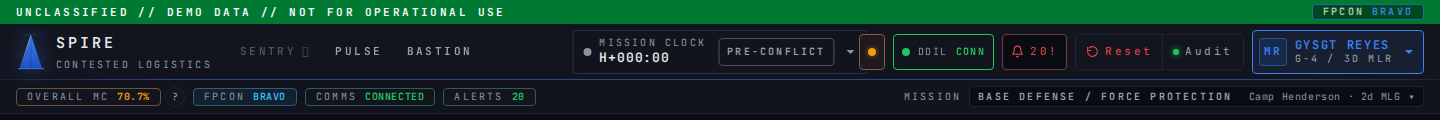
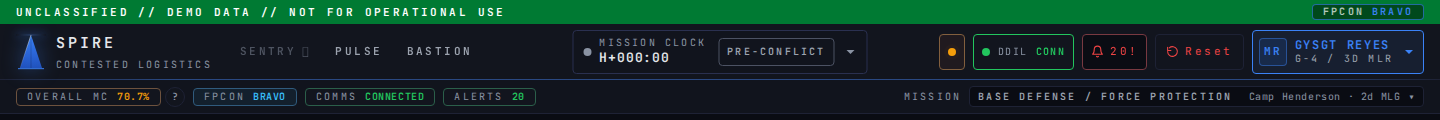
topbar: restore Audit stage-only gating (matches master AuditPill chrome)
Code-review follow-up. The previous commit set `showAudit = true` in
  StageCluster, which exposed the Audit chip in operator mode. The master
  TopBar guarded AuditPill with `{stageMode && <AuditPill />}`, so the
  chip is stage-only — restored exactly:

  - StageCluster: `showAudit = stageMode`. Failsafe and Reset gating
    unchanged (preserves master behaviour). The cluster returns null when
    no buttons are visible, so a non-g4 operator with no scenario sees
    no empty rounded shell.
  - TopBar still mounts <StageCluster role={role} /> unconditionally —
    the cluster's internal gates take over and produce master-equivalent
    visibility for every (role × stageMode × scenarioLoaded) combo.
  - topbar_layout.spec.ts: rewrote the operator-mode test to assert
    Audit and Failsafe are HIDDEN (operator + g4 + no scenario only
    shows Reset), and added a test that the cluster returns null
    entirely for non-g4 operators with no scenario. The stage-mode test
    still asserts Reset + Audit visible (Failsafe gated on scenario).
  - docs/topbar-anatomy.md: corrected AuditPill row to "stage-only".
  - docs/screenshots/topbar/*.png re-captured (Audit no longer appears
    in operator screenshots).

  Validation: 26/26 Playwright tests green; tsc clean.

Changed region(s): [[0.5938, 0.375, 0.875, 0.5], [0.5938, 0.55, 0.8125, 0.6], [0.5938, 0.275, 0.8125, 0.325]]

diff --git a/tests/playwright/topbar_layout.spec.ts b/tests/playwright/topbar_layout.spec.ts
@@ -128,7 +128,7 @@ test.describe("TopBar declutter (Task #184)", () => {
     await expect(topbar.getByRole("link", { name: /^BASTION$/i }).first()).toBeVisible();
   });
 
-  test("stage mode at lg shows StageCluster with Reset (relaxed) + Audit grouped", async ({ page }) => {
+  test("stage mode at lg renders the StageCluster with Reset + Audit grouped", async ({ page }) => {
     await page.setViewportSize(BREAKPOINTS.lg);
     await enableStageMode(page);
     // Reset is g4-only outside stage mode; in stage mode it relaxes to
@@ -137,27 +137,36 @@ test.describe("TopBar declutter (Task #184)", () => {
     const cluster = page.getByTestId("stage-cluster");
     await expect(cluster).toBeVisible();
     await expect(cluster).toHaveAttribute("data-stage-mode", "1");
-    // Reset relaxes for any role in stage mode; Audit is unconditional.
+    // In stage mode the cluster groups all three controls. Failsafe is
+    // gated on a loaded scenario (same gate as the original chrome) and
+    // the spec doesn't trigger one, so it's absent here — Reset and
+    // Audit are the two stage-only controls that always render.
     await expect(cluster.getByTestId("stage-cluster-reset")).toBeVisible();
     await expect(cluster.getByTestId("stage-cluster-audit")).toBeVisible();
-    // Failsafe is gated on a loaded scenario (same gate as the original
-    // chrome). The spec doesn't trigger one, so the button is absent —
-    // exactly what the old TopBar did. We assert the gate, not presence.
     await expect(cluster.getByTestId("stage-cluster-failsafe")).toHaveCount(0);
   });
 
-  test("operator mode preserves Audit (always) — Failsafe and Reset stay role-gated", async ({ page }) => {
-    // Reyes (g4) — Audit always visible, Reset visible for g4. Failsafe
-    // requires a scenario to be loaded, which the spec doesn't trigger,
-    // so we only assert it's NOT visible (matches the old chrome).
+  test("operator mode keeps stage-only controls hidden — Audit + Failsafe gated, Reset stays for g4", async ({ page }) => {
+    // The pre-declutter chrome rendered AuditPill only when stageMode is
+    // on (`{stageMode && <AuditPill />}`). The cluster preserves that
+    // exactly. Reset stays visible for g4 outside stage mode.
     await page.setViewportSize(BREAKPOINTS.lg);
     await signIn(page, TEST_DODID);
     const cluster = page.getByTestId("stage-cluster");
     await expect(cluster).toBeVisible();
     await expect(cluster).toHaveAttribute("data-stage-mode", "0");
-    await expect(cluster.getByTestId("stage-cluster-audit")).toBeVisible();
     await expect(cluster.getByTestId("stage-cluster-reset")).toBeVisible();
+    await expect(cluster.getByTestId("stage-cluster-audit")).toHaveCount(0);
     await expect(cluster.getByTestId("stage-cluster-failsafe")).toHaveCount(0);
+  });
+
+  test("operator mode for non-g4 with no scenario hides the StageCluster entirely", async ({ page }) => {
+    // For Park (security_manager) outside stage mode with no scenario:
+    // Audit gated (stage-only), Reset gated (g4-only), Failsafe gated
+    // (no scenario). The cluster returns null — no empty rounded shell.
+    await page.setViewportSize(BREAKPOINTS.lg);
+    await signIn(page, SECURITY_MANAGER_DODID);
+    await expect(page.getByTestId("stage-cluster")).toHaveCount(0);
   });
 
   test("IdentityPill menu hosts Operator settings (Air-gap, Density, Comms)", async ({ page }) => {

diff --git a/frontend/src/components/StageCluster.tsx b/frontend/src/components/StageCluster.tsx
@@ -10,13 +10,17 @@
  *     off (independent of stage mode).
  *   - Reset:    visible for `role === "g4"` outside stage mode; visible
  *     for any role inside stage mode (mirrors original ResetDemoButton).
- *   - Audit:    visible at all times. Stage mode bypasses the AuditView
- *     scope check (see AuditView), but the chrome rule is unchanged.
+ *   - Audit:    visible only in stage mode. The pre-declutter chrome
+ *     guarded `AuditPill` with `{stageMode && <AuditPill />}`, so the
+ *     icon is stage-only here too. (AuditView itself is reachable via
+ *     direct nav in operator mode for g4 — the chrome chip was always
+ *     stage-only.)
  *
  * The cluster renders nothing when none of its buttons are visible (so a
  * non-g4 operator with no scenario loaded never sees an empty rounded
- * shell). When only Audit is visible the cluster still renders — that
- * matches the pre-declutter chrome where AuditPill always rendered.
+ * shell). In operator mode for `role === "g4"` only the Reset button
+ * renders inside the cluster, exactly mirroring the pre-declutter
+ * `<ResetDemoButton />` chrome slot.
  *
  * The cluster sits in one slot of the right group's visual budget — the
  * task's "at most 5 visible chips" target counts this container as one,
@@ -87,7 +91,7 @@ export function StageCluster({ role }: { role: Role }) {
   // Original gating preserved exactly. See file header for the table.
   const showFailsafe = scenarioLoaded && failsafeMode === "off";
   const showReset = stageMode || role === "g4";
-  const showAudit = true;
+  const showAudit = stageMode;
 
   if (!showFailsafe && !showReset && !showAudit) return null;
 

diff --git a/docs/topbar-anatomy.md b/docs/topbar-anatomy.md
@@ -100,7 +100,7 @@ truncates.
 | DraftsBadge               | `NotificationsChip` Drafts tab                    |
 | FailsafePill              | `StageCluster` Failsafe icon (gated as before: scenario loaded + failsafe off, both modes) |
 | ResetDemoButton           | `StageCluster` Reset icon (gated as before: g4 in operator mode, any role in stage mode) |
-| AuditPill                 | `StageCluster` Audit icon (always visible, both modes) |
+| AuditPill                 | `StageCluster` Audit icon (stage-only, matches the original `{stageMode && <AuditPill />}` chrome) |
 | AirGapToggle              | IdentityPill → Operator settings → Air-gap row    |
 | DensityToggle             | IdentityPill → Operator settings → Density radio  |
 | CommsControl              | Stays in right group (single posture chip)        |
